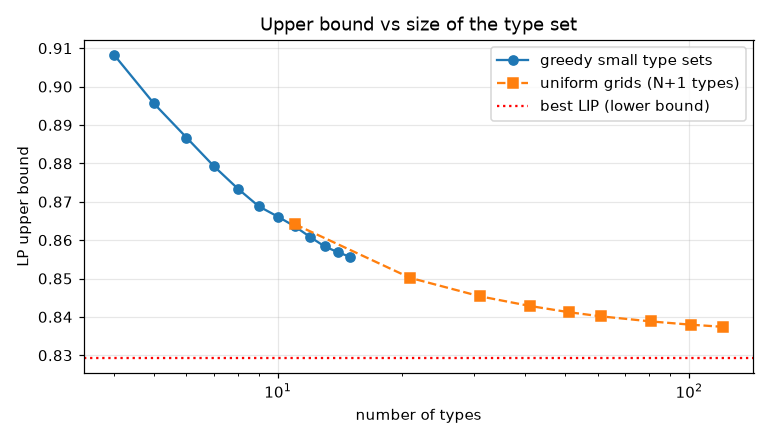
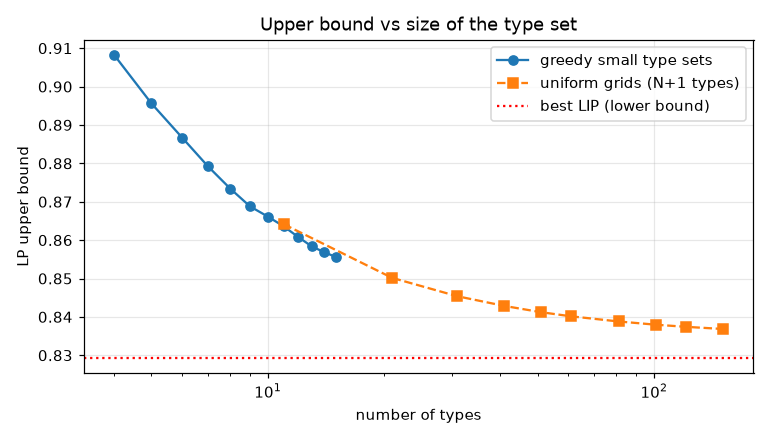
Notebook 02 rebuilt with corrected claim; notebook 01 script note

diff --git a/experiments/nb_02_lp_structure.py b/experiments/nb_02_lp_structure.py
@@ -123,11 +123,12 @@ hist_df
 """)
 
 nb.md(r"""
-So a dozen hand-picked types already beat the paper's 51-type grid, and the greedy sets have
-a recognisable structure: types cluster around the Claim-5 regime switches ($\approx0.12$,
-$\approx0.88$), near $0.4/0.6$ (the edge worst case of LIP) and at the extremes. A
-human-checkable certificate is therefore realistic: the LP with ~8 types has ~130 variables and
-its dual can be printed in full.
+A dozen greedily chosen types give $\approx0.86$ — not as sharp as the paper's 51-type grid
+($0.841$), but already most of the way down from the trivial bound, with LPs of a few dozen
+variables. The greedy sets have a recognisable structure: types cluster around the Claim-5
+regime switches ($\approx0.12$, $\approx0.88$), near $0.4/0.6$ (the edge worst case of LIP) and at
+the extremes. A human-checkable certificate of a bound like $0.87$ is therefore realistic: the LP
+with 8 types has 128 variables and its dual (printed below) fits on half a page.
 
 ## 4. A fully explicit certificate for a small type set
 
@@ -152,8 +153,9 @@ nb.md(r"""
 * The LP-optimal mechanism looks like a smoothed dictatorship with LIP-like plateaus.
 * Binding profiles form a one-dimensional family; the heavy ones sit on the edge $y=0$ / $x=1$
   and near the anti-diagonal — the same two branches that govern LIP's worst case (notebook 01).
-* Small, explicit type sets give upper bounds close to the large-grid LP, which is the practical
-  answer to the paper's "no human-verifiable proof" caveat.
+* Small, explicit type sets give upper bounds within a few percent of the large-grid LP
+  ($0.873$ with 8 types), which is a practical partial answer to the paper's "no human-verifiable
+  proof" caveat; the sharp bound still needs a large LP.
 """)
 
 nb.save(execute=True)

diff --git a/experiments/nb_01_replication.py b/experiments/nb_01_replication.py
@@ -142,7 +142,9 @@ scan[["a", "alpha_lower", "alpha_upper", "x_worst", "y_worst", "theta_upper"]].q
 
 nb.md(r"""
 Note how the worst-case profile `(x_worst, y_worst)` jumps from the edge $y=0$ to the
-anti-diagonal ($x+y=1$) at $a^\star$, and that `alpha_upper == theta_upper` beyond it.
+anti-diagonal ($x+y=1$) at $a^\star$, and that `alpha_upper == theta_upper` beyond it. (Rows
+with `x_worst = 1`, e.g. $a=1.6$, are the same edge branch seen through the item-swap symmetry
+$(x,y)\mapsto(1-y,1-x)$: $(1,0.635)$ is the mirror image of $(0.365,0)$.)
 """)
 
 nb.md(r"""
